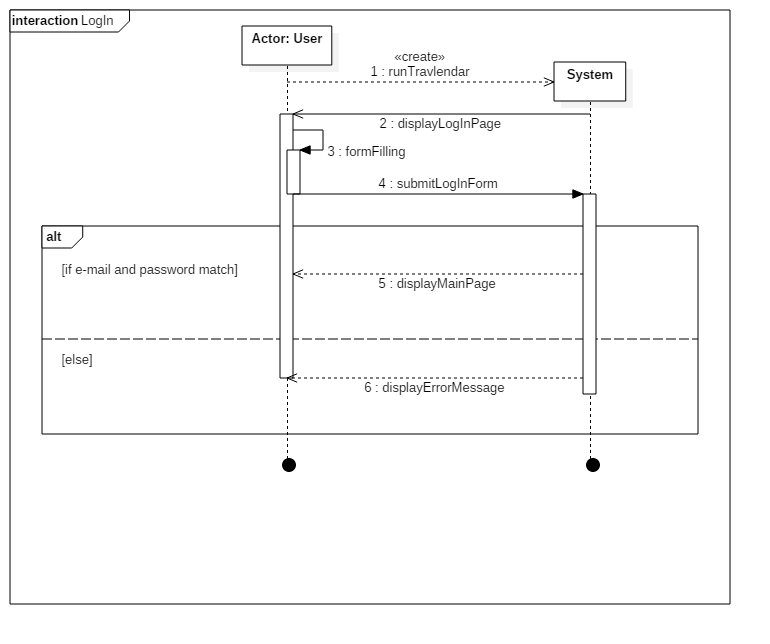
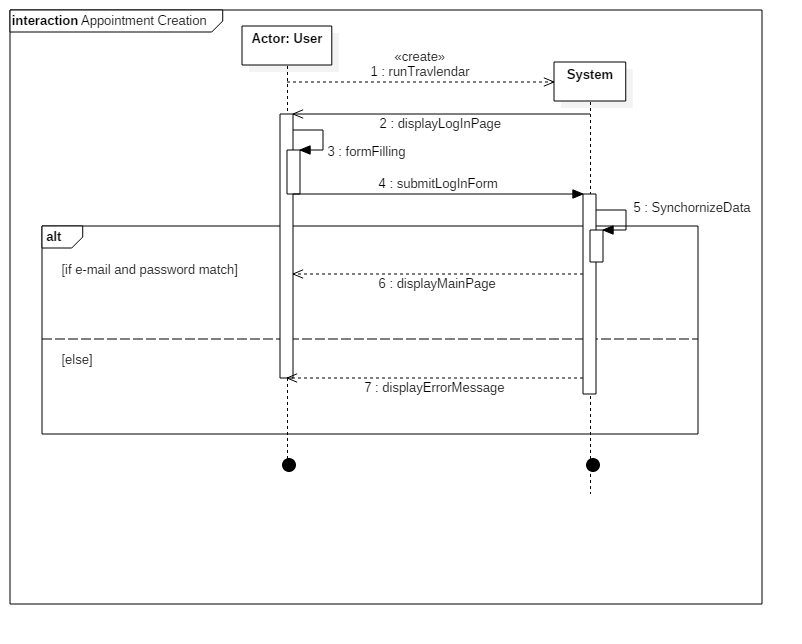
rasd v 1.1 upload

diff --git a/RASD/cap1_introduzione.tex b/RASD/cap1_introduzione.tex
@@ -194,6 +194,9 @@ Acronyms used in the text:
 %\goalref{goal:G1}
 
 \section{Revision history}
+\begin{itemize}
+\item Version 1.1: included synchronization details
+\end{itemize} 
 
 \section{Document structure}
 This document is structured as:
